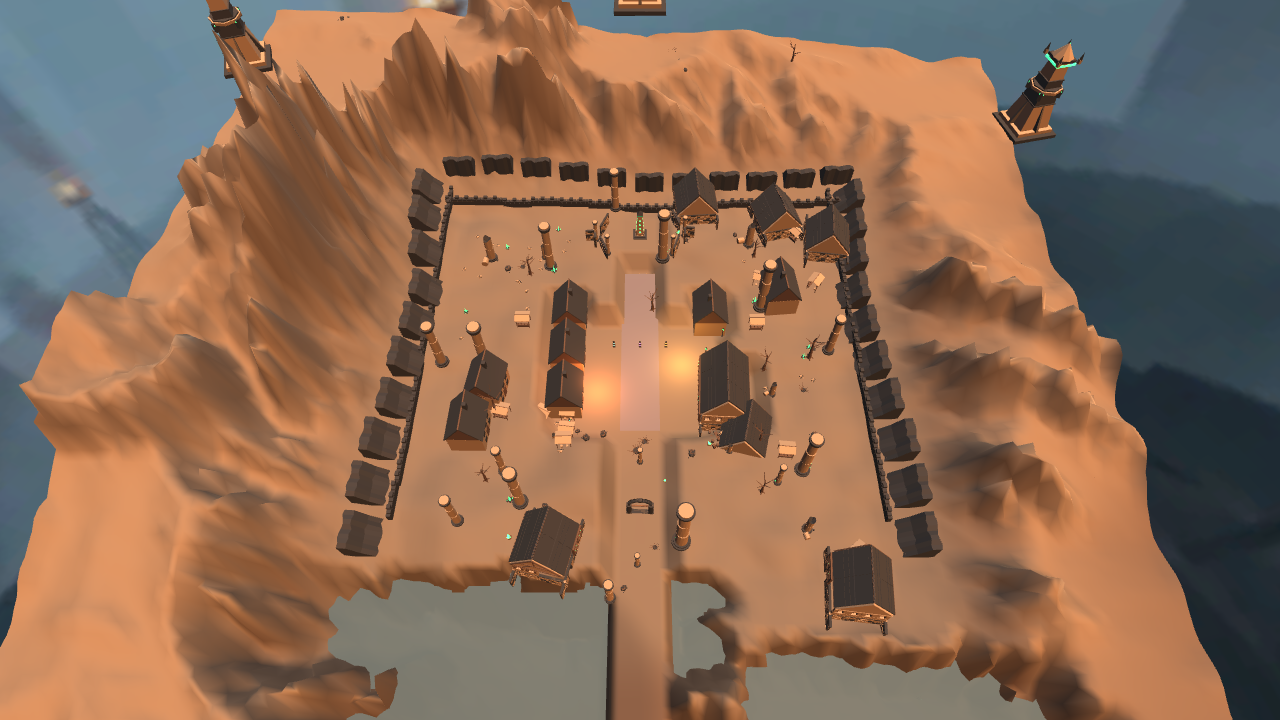
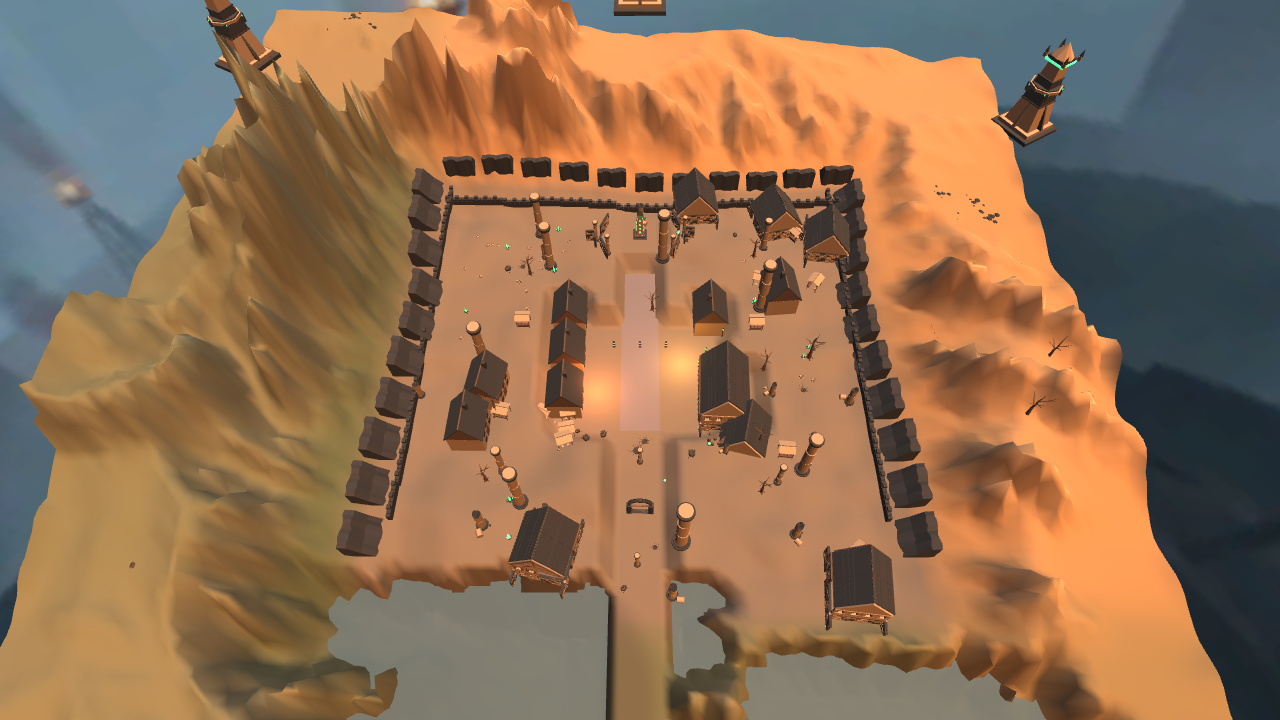
preview: 📋 Stage 2 감사 리포트 + Stage 3 재정의. codex가 논문 Figure 기준 감사→세 하위스텝 PARTIAL: ①재질구역 단색 ②산포 격자형. 반영: 바이옴 지면색+클러스터 산포, 3070에 지면식생·부두 발주(R22). 미러 plan.html에서 Stage 3를 논문 3스텝(구역분할→지형인지배치→구역별정련)으로 재정의, 기존 완료분은 취소선. 다음: Stage 3 재진행(중간검토 필수). https://rhodewhalin.github.io/dark-onboarding-preview/plan.htm

diff --git a/plan.html b/plan.html
@@ -68,7 +68,7 @@
 
 <script>
 // ── plan data (edited each wave; status: done | run | wait) ─────────────────────────────
-const UPDATED = "2026-08-16 · 야근 웨이브 2 (Stage 1 완료 + 물 도입)";
+const UPDATED = "2026-08-16 · 야근 웨이브 3 (Stage 2 감사·보강 + Stage 3 재정의)";
 const GOAL = "<b>이번 야근 목표:</b> Figure 1의 <b>Stage 1(Intent Analysis &amp; Planning)</b>을 thorough 하게 다시 세우고, <b>Stage 2 하위 3단계(Scene Terrain Generation &amp; Refinement)</b>까지 진행한다. 계기: 침식 버전이 여태 최선이나 ①좁은 타일에 과도한 고지대 ②맵에 물이 전혀 없음 — 되짚어 보니 <b>Stage 1을 건너뛰어</b> 지형 범주(특히 물)를 의도에서 유도하지 않고 건물 중심 분할로 직행한 게 근본 원인.";
 const FOOT = "핵심 인사이트: <i>coarse-to-fine agentic framework for building explicit, explorable, and editable 3D worlds from open-ended text.</i> — 우리도 거친 지형 골조(Stage 2)부터 세우고 점진적으로 조밀화(Stage 3)하되, 그 출발점인 의도 명세(Stage 1)를 먼저 제대로 닫는다.";
 
@@ -107,19 +107,35 @@ const STEPS = [
    <ul>
      <li><b>terrain generation</b> ✔ — 지질 구조(크레스트·지맥·배수) + 수력 침식 베이크(MIT 알고리즘 각색) + <b>물(강/호수/오아시스/산정호)</b> 절개+수면 평면 + <b>고지대 range_h 4~7로 하향</b>.</li>
      <li><b>3d assets scatter</b> ✔ — 범주별 접지 산포(경사 검사) + 수변 갈대 + 도로-강 교차 다리.</li>
-     <li><b>scene refinement</b> ✔(1라운드) — codex 판정: 물 통합 archive·cognition YES, oathbound·beacon PARTIAL. beacon 오아시스 분지화·수면 광택 하향 반영.</li>
+     <li><b>scene refinement</b> ✔(다회) — codex 게이트: 물 통합 archive·cognition YES. <b>Stage 2 전체 감사(논문 Figure 대조)</b>: 세 하위스텝 PARTIAL → 재질구역/산포 보강 중.</li>
    </ul>
-   <p><b>남은 리파인(다음 웨이브):</b> codex 최대 잔여 지적 = "정착지 footprint가 너무 직각·평탄한 슬랩(성벽 사각형)" → 성벽·테라스 가장자리 유기화. 물 자체는 양호.</p>`,
+   <div class="rev"><h4>Stage 2 감사 (논문 Figure 대조) · 개정</h4>
+     <div><span class="old">재질구역: 왕국마다 단색 지면</span> → <span class="new">바이옴별 지면색(숲/모래/암반/협곡) — 정점색 한계까지, 3070 지면식생으로 마저</span></div>
+     <div><span class="old">산포: 성기고 격자형</span> → <span class="new">클러스터 군집(그로브·바위밭), 캡 66</span></div>
+     <div><span class="old">정련: 1~2라운드</span> → <span class="new">codex 다회 + 라운드22 3070 발주(scrub_tuft·dock_platform)</span></div>
+   </div>
+   <p><b>남은 리파인:</b> 정점색만으론 재질구역이 포그·조명에 눌림 → 3070 <code>scrub_tuft</code> 지면 식생으로 구역을 기하로 읽히게(대기). 성벽 직각 슬랩은 Stage 3 재정렬에서 함께.</p>`,
    rev:[{old:"물 없음 · 좁은 타일 과도 고지대", new:"강·호수 도입 + 고지대 하향 + 수력 침식으로 지질 서사"}] },
 
- { stage:"Stage 3 — Regional Object Generation & Placement", status:"done",
-   title:"정착지 구역 배치 (기존 완료분)",
-   body:`<p>성곽 도시 스케일에서 이미 구현: 스펙 구동 구역 분할, 건물 조립, co-deformation 접지 패드, 비겹침, 구역 위계, 안뜰 보이드, 워크스루 QA. Stage 1/2를 다시 세운 뒤 이 위에 재정렬한다.</p>`,
-   rev:[
-     {old:"균일 노이즈 진폭 튜닝으로 야생 지형 생성", new:"위치를 가진 지형 오퍼레이터 합성(랜드폼 피처)"},
-     {old:"독립된 랜드폼 피처(혹들)", new:"지질 구조(고지→지맥→배수)에서 유도 + 수력 침식 베이크"},
-     {old:"물 없음 · 좁은 타일에 과도한 고지대", new:"[진행 중] 물(강/호수) 1급 범주 도입 + 고지대 스케일 하향"},
-   ] },
+ { stage:"Stage 3 — Regional Object Generation & Placement", status:"wait",
+   title:"⟳ 재정의 — 기존 도심 배치를 걷어내고 논문 3스텝으로 다시 세움",
+   body:`<p><s>기존: 성곽 도시 스케일에서 스펙 구동 구역 분할·건물 조립·접지 패드·위계·안뜰 등 "완료"로 뒀던 분량.</s> → 이 배치는 <b>물·지질 지형이 없던 옛 지형 위에</b> 세워졌다. Stage 1/2를 새로 세웠으니, 논문 Figure 1의 Stage 3 세 스텝으로 <b>다시 정렬</b>한다(아래). 기존 도심 조립 로직 자체는 자산이지만, 이제 <b>물·지형을 인지</b>하고 <b>기능 구역</b>으로 재편해야 한다.</p>
+   <div class="rev"><h4>개정 이력</h4>
+     <div><span class="old">Stage 3 = "완료"로 표기</span> → <span class="new">논문 3스텝으로 재정의·재진행 (미착수)</span></div>
+     <div><span class="old">구역 = 건물 중심 분할(threshold/spine/core/precinct)</span> → <span class="new">기능 구역(광장·주거·보급·수변 어촌 등) + 물·지형 인지 배치</span></div>
+   </div>` },
+
+ { stage:"Stage 3 — Regional Object Generation & Placement", status:"wait",
+   title:"3.1 Region Planning — 기능 구역 분할 (divide regions)",
+   body:`<p>맵을 <b>기능이 다른 구역</b>으로 나눈다(논문 예: Festival Plaza·Cabin Village·Supply Site·Fishing Village). 우리판: 시민 광장·주거 지구·보급/시장·<b>수변 어촌(부두)</b>·성소 등 — 물·지형에 맞춰 배치(수변엔 어촌·부두, 고지엔 방어·봉화).</p>` },
+
+ { stage:"Stage 3 — Regional Object Generation & Placement", status:"wait",
+   title:"3.2 Terrain-Aware Rendering & Placement — 구역별 지형 인지 배치",
+   body:`<p>구역마다 오브젝트를 <b>지형을 인지해</b> 배치(논문: region 렌더→오브젝트 검출→3D 배치, 지형에 자세 맞춤). 우리판: 스펙 구동 배치 + co-deformation 접지 패드 + 비겹침 + <b>물 인지</b>(물에 건물 안 놓고, 수변엔 부두·갈대) + 경사 접지.</p>` },
+
+ { stage:"Stage 3 — Regional Object Generation & Placement", status:"wait",
+   title:"3.3 Scene Refinement — 구역별 정련 루프 (pose/scale/collision/quality)",
+   body:`<p>구역을 하나씩 근접 렌더해 <b>자세·스케일·충돌·품질</b>을 점검·수정(논문: for region in a,b,c,d). 우리판: 워크스루 QA + codex 적대적 시각 리뷰를 구역 단위로. <b>중간검토 필수</b>.</p>` },
 ];
 
 const ICON = {done:"완료", run:"진행 중", wait:"대기"};
